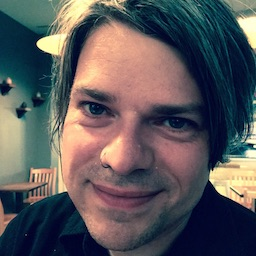
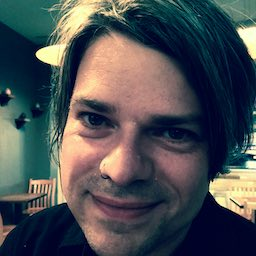
reduce image sizes

diff --git a/src/html/index.html b/src/html/index.html
@@ -232,7 +232,7 @@
               <h3 class="b tracked-tight helvetica tl ml2 mt0 ma0 pa0">Promotion</h3>
               <h1 class="f4 mb1">Struggling with OO Design?</h1>
               <h2 class="f5 tracked-tight fw3 ttu mt0">SOLID only makes it worse</h2>
-              <img src="/images/not-solid-cover.png" class="w-33 shadow-5" alt="Book Cover for SOLID is not Solid" nopin="nopin">
+              <img src="/images/not-solid-cover.jpg" class="w-33 shadow-5" alt="Book Cover for SOLID is not Solid" nopin="nopin">
               <p class="f4 b">
                 <form method="get" action="https://bit.ly/not-solid">
                   <input class="pa2" type="submit" value="Buy Now $5.99">
